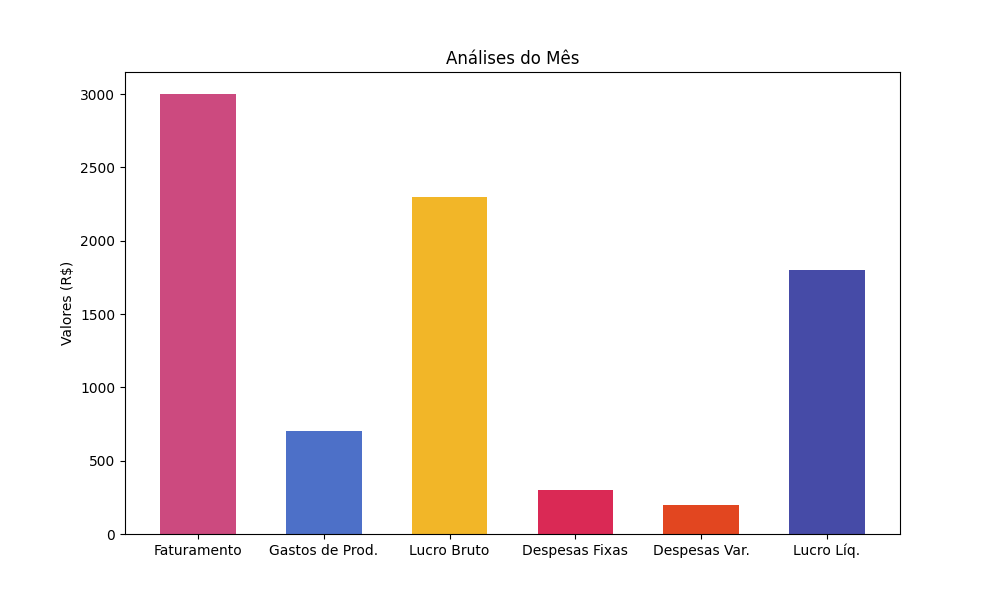
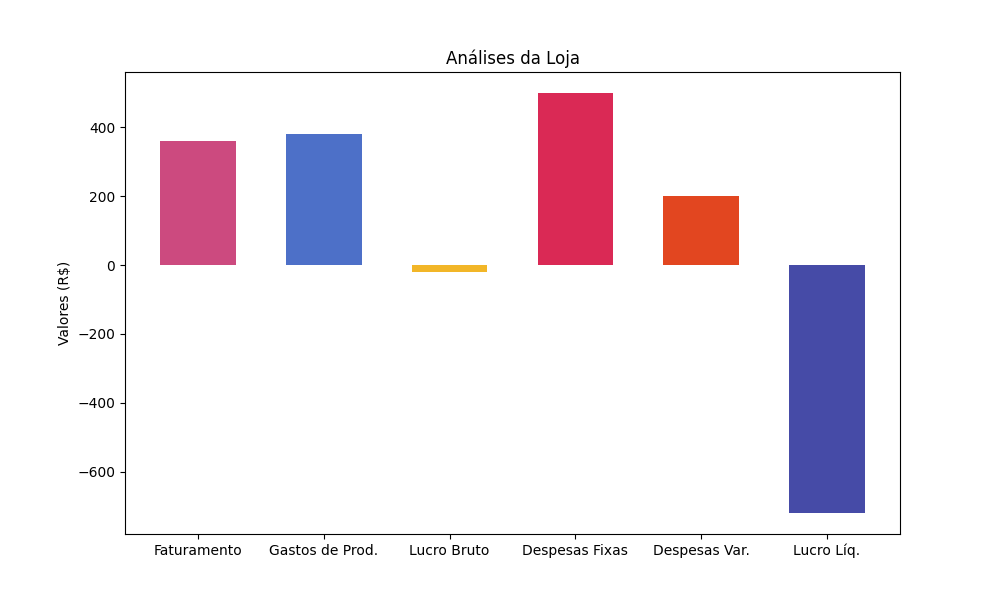
Ajeitando e fazendo o PDF

diff --git a/PDFs/funções_pdf.py b/PDFs/funções_pdf.py
@@ -1,16 +1,16 @@
 parametroParado = 2
 
 def dataNormal(data):
-    data_normal = str(data)[6:8]}/{str(data)[4:6]}/{str(data)[0:4]
-    return(data)
+    data_normal = f"{str(data)[6:8]}/{str(data)[4:6]}/{str(data)[0:4]}"
+    return(data_normal)
 
 def dataForma1(data): # Se a data tiver na forma 24062025
-    data = int( str(data1)[4:8]+str(data1)[2:4]+str(data1)[0:2] )
-    return(data)
+    dataForma1 = int( str(data)[4:8]+str(data)[2:4]+str(data)[0:2] )
+    return(dataForma1)
 
 def dataForma2(data): # Se a data tiver na forma "24/06/2025"
-    data = int( str(data2)[6:10]+str(data2)[3:5]+str(data2)[0:2] )
-    return(data)
+    data = int( str(data)[6:10]+str(data)[3:5]+str(data)[0:2] )
+    return(dataForma2)
 
 
 def listaParados():
@@ -19,7 +19,7 @@ def listaParados():
     banco = sqlite3.connect('banco_lojaArcanjo.db')
     cursor = banco.cursor()
 
-    cursor.execute("SELECT codigo FROM loja WHERE Vendidos <= ?", (parametroParado))
+    cursor.execute("SELECT codigo FROM loja WHERE Vendidos <= ?", (parametroParado,))
     resultado = cursor.fetchall()
 
     parados = [linha[0] for linha in resultado]
@@ -42,10 +42,10 @@ def salvarDados(data, despesas_f, despesas_v):
     for i in parados:
         paradosStr += str(i) + " "
 
-    cursor.execute("UPDATE Dados_Salvos SET Despesa_Fixas = ? WHERE Data = 0", (despesas_f))
-    cursor.execute("UPDATE Dados_Salvos SET Despesas_Variáveis = ? WHERE Data = 0", (despesas_v))
-    cursor.execute("UPDATE Dados_Salvos SET Produtos_Parados = ? WHERE Data = 0", (paradosStr))
-    cursor.execute("UPDATE Dados_Salvos SET Data = ? WHERE Data = 0", (data))
+    cursor.execute("UPDATE Dados_Salvos SET Despesa_Fixas = ? WHERE Data = 0", (despesas_f,))
+    cursor.execute("UPDATE Dados_Salvos SET Despesas_Variáveis = ? WHERE Data = 0", (despesas_v,))
+    cursor.execute("UPDATE Dados_Salvos SET Produtos_Parados = ? WHERE Data = 0", (paradosStr,))
+    cursor.execute("UPDATE Dados_Salvos SET Data = ? WHERE Data = 0", (data,))
 
     cursor.execute("INSERT INTO Dados_Salvos VALUES (?, ?, ?, ?, ?, ?)", (0, 0, 0, 0, "", 0))
 
@@ -54,24 +54,28 @@ def salvarDados(data, despesas_f, despesas_v):
 
 def criarGrafico(data_1, data_2):
     import matplotlib.pyplot as plt
+    import sqlite3
+
+    banco = sqlite3.connect('banco_lojaArcanjo.db')
+    cursor = banco.cursor()
 
     categorias = ["Faturamento", "Gastos de Prod.", "Lucro Bruto", "Despesas Fixas", "Despesas Var.", "Lucro Líq."]
     cores = ['#CC4A7F', '#4D70C8', '#F2B628', "#DA2955", '#E24620', '#464BA7']
 
     cursor.execute("SELECT Faturamento FROM Dados_Salvos WHERE data >= ? AND data <= ?", (data_1, data_2))
-    Faturamento = [linha[0] for linha in cursor.fetchall()[1:]]
+    fat = [linha[0] for linha in cursor.fetchall()[1:]]
 
     cursor.execute("SELECT Gastos_de_Produção FROM Dados_Salvos WHERE data >= ? AND data <= ?", (data_1, data_2))
-    Gastos = [linha[0] for linha in cursor.fetchall()[1:]]
+    gastos = [linha[0] for linha in cursor.fetchall()[1:]]
 
     cursor.execute("SELECT Despesa_Fixas FROM Dados_Salvos WHERE data >= ? AND data <= ?", (data_1, data_2))
-    depesasF = [linha[0] for linha in cursor.fetchall()[1:]]
+    despesasF = [linha[0] for linha in cursor.fetchall()[1:]]
 
     cursor.execute("SELECT Despesas_Variáveis FROM Dados_Salvos WHERE data >= ? AND data <= ?", (data_1, data_2))
-    depesasV = [linha[0] for linha in cursor.fetchall()[1:]]
+    despesasV = [linha[0] for linha in cursor.fetchall()[1:]]
 
 
-    valores = [sum(fat), sum(gastos), ( sum(fat) - sum(gastos), sum(depesasF) ), sum(DespesasV), ( sum(fat)-sum(gastos)-sum(depesasF)-sum(DespesasV) )]
+    valores = [sum(fat), sum(gastos), ( sum(fat) - sum(gastos)), sum(despesasF), sum(despesasV), ( sum(fat)-sum(gastos)-sum(despesasF)-sum(despesasV) )]
 
     plt.figure(figsize = (10, 6))  # Largura x Altura
     plt.bar(categorias, valores, color = cores, width = 0.6)
@@ -83,6 +87,7 @@ def criarGrafico(data_1, data_2):
     # Salvar o gráfico como imagem (PNG)
     plt.savefig("Análises.png")
     plt.close()
+    banco.close()
 
 def produtos_parados(data_1, data_2):
     import sqlite3
@@ -101,15 +106,15 @@ def produtos_parados(data_1, data_2):
     for i in range(1, len(datas)):
         parados = ""
 
-        for j in range(len(estoques[i].split)):
-            paradosEspecifico = estoques[i].split
+        for j in range(1, len(estoques[i].split())):
+            paradosEspecifico = estoques[i].split()
 
-            cursor.execute("SELECT Nome_produto FROM loja WHERE codigo = ?", (int(paradosEspecifico[j])))
+            cursor.execute("SELECT Nome_produto FROM loja WHERE codigo = ?", (int(paradosEspecifico[j]),))
             paradao = cursor.fetchone()[0]
 
             parados += paradao + ", "
 
-        listaParagrafosParados.append(f"Entre os dias {dataNormal(i-1) e {dataNormal(i)} os itens que ficaram parados segundo o paramêtro no período foram: {paradosEspecifico[0:-2]}}")
+        listaParagrafosParados.append(f"Entre os dias {dataNormal(datas[i-1])} e {dataNormal(datas[i])} os itens que ficaram parados segundo o paramêtro no período foram: {parados[0:-2]}")
     
     banco.close()
         

diff --git a/funções.py b/funções.py
@@ -148,10 +148,12 @@ def AdicionarProdutoAoEstoque():
         cursor.execute("UPDATE loja SET estoque = ? WHERE codigo = ?", (novo_estoque, codigo_q))
 
         # Parte pro PDF
-        cursor.execute("SELECT valor_original FROM loja WHERE codigo = ?", (codigo_q))
-        gastoUnidade = cursor.fetchone()
-        
-        cursor.execute("UPDATE Dados_Salvos SET Gastos_de_Produção = ? WHERE Data = 0", (gastoUnidade * quantidade_q))
+        cursor.execute("SELECT valor_original FROM loja WHERE codigo = ?", (codigo_q,))
+        gastoUnidade = cursor.fetchone()[0]
+
+        gastosProd = gastoUnidade * quantidade_q
+        data = 0      
+        cursor.execute("UPDATE Dados_Salvos SET Gastos_de_Produção = ? WHERE Data = ?", (gastosProd, data))
 
         banco.commit()
         print("Estoque atualizado com sucesso! Novo estoque:", novo_estoque)
@@ -196,13 +198,13 @@ def RemoverProdutoDoEstoque():
             print("Estoque atualizado!")
 
             # Parte pro PDF
-            cursor.execute("SELECT valor FROM loja WHERE codigo = ?", (codigo))
-            ganhoUnidade = cursor.fetchone()
+            cursor.execute("SELECT valor FROM loja WHERE codigo = ?", (codigo,))
+            ganhoUnidade = cursor.fetchone()[0]
         
-            cursor.execute("UPDATE Dados_Salvos SET Faturamento = ? WHERE Data = 0", (ganhoUnidade * quantidade))
+            cursor.execute("UPDATE Dados_Salvos SET Faturamento = ? WHERE Data = 0", (ganhoUnidade * quantidade,))
 
             cursor.execute("SELECT Vendidos FROM loja WHERE codigo = ?", (codigo,))
-            quantVendidos = cursor.fetchone()
+            quantVendidos = cursor.fetchone()[0]
             cursor.execute("UPDATE loja SET Vendidos = ? WHERE codigo = ?", (quantVendidos + quantidade, codigo))
 
             banco.commit()
@@ -221,15 +223,13 @@ def RemovercadastroProduto():
 
     cursor.execute("SELECT * FROM loja WHERE codigo== ? ",(codigo,))
     dados= cursor.fetchall()
-    banco.commit()
 
     while dados == []:
         print("Codigo inválido. Digite novamente!")
-        codigo = (input("Digite o código do produto: "))
+        codigo = (input("Digite o código do produto: ")) #roda inifinitamente se n quiser digitar outro codigo
         codigo = ValidaInteiro(codigo)
         cursor.execute("SELECT * FROM loja WHERE codigo== ? ",(codigo,))
         dados= cursor.fetchall()
-        banco.commit()
 
     cursor.execute("DELETE from loja WHERE codigo = ?", (codigo,))
     print('Produto removido com sucesso!')

diff --git a/PDFs/PDF.py b/PDFs/PDF.py
@@ -1,3 +1,5 @@
+import funções_pdf
+
 def criarPDF(data1, data2):
     from reportlab.pdfgen import canvas
     from reportlab.lib.pagesizes import letter
@@ -26,15 +28,27 @@ def criarPDF(data1, data2):
     paragrafo1 = Paragraph(texto1, estilo)
     paragrafo2 = Paragraph(texto2, estilo)
     paragrafo3 = Paragraph(texto3, estilo)
-    paragrafo4 = Paragraph(texto4, estilo)
 
-    criarGrafico(data1, data2)
+    funções_pdf.criarGrafico(data1, data2)
     grafico_img = Image('Análises.png', width = 400, height = 240)
 
-    conteudo = [paragrafo1, paragrafo2, paragrafo3, Spacer(1, 12), grafico_img, Spacer(1, 12)]
+    # Estilo para o título
+    estilo_titulo = ParagraphStyle(
+        name = "Titulo",
+        parent = styles["Heading1"],
+        alignment = 1,  # 0 = esquerda, 1 = centralizado, 2 = direita
+        fontSize = 18,
+        spaceAfter = 20
+    )
 
-    paragrafos = produtos_parados(data1, data2)
+    # Título do relatório
+    titulo_texto = "Análise Financeira da Loja Arcanjo"
+    titulo = Paragraph(titulo_texto, estilo_titulo)
+
+    conteudo = [titulo, paragrafo1, paragrafo2, paragrafo3, Spacer(1, 12), grafico_img, Spacer(1, 12)]
+
+    paragrafos = funções_pdf.produtos_parados(data1, data2)
     for frase in paragrafos:
-        conteudo.append([Paragraph(frase, estilo)])
+        conteudo.append(Paragraph(frase, estilo))
 
     pdf.build(conteudo)

diff --git a/PDFs/testes.py b/PDFs/testes.py
@@ -1,0 +1,24 @@
+import matplotlib.pyplot as plt
+import sqlite3
+
+data_1, data_2 = 20250624, 20250625
+
+banco = sqlite3.connect('banco_lojaArcanjo.db')
+cursor = banco.cursor()
+
+categorias = ["Faturamento", "Gastos de Prod.", "Lucro Bruto", "Despesas Fixas", "Despesas Var.", "Lucro Líq."]
+cores = ['#CC4A7F', '#4D70C8', '#F2B628', "#DA2955", '#E24620', '#464BA7']
+
+cursor.execute("SELECT Faturamento FROM Dados_Salvos WHERE data >= ? AND data <= ?", (data_1, data_2))
+fat = [linha[0] for linha in cursor.fetchall()[1:]]
+
+cursor.execute("SELECT Gastos_de_Produção FROM Dados_Salvos WHERE data >= ? AND data <= ?", (data_1, data_2))
+gastos = [linha[0] for linha in cursor.fetchall()[1:]]
+
+cursor.execute("SELECT Despesa_Fixas FROM Dados_Salvos WHERE data >= ? AND data <= ?", (data_1, data_2))
+despesasF = [linha[0] for linha in cursor.fetchall()[1:]]
+
+cursor.execute("SELECT Despesas_Variáveis FROM Dados_Salvos WHERE data >= ? AND data <= ?", (data_1, data_2))
+despesasV = [linha[0] for linha in cursor.fetchall()[1:]]
+
+print(sum(fat))

diff --git a/NOVACOLUNA.py b/NOVACOLUNA.py
@@ -1,0 +1,21 @@
+# import sqlite3
+# banco = sqlite3.connect("banco_lojaArcanjo.db")
+# cursor = banco.cursor()
+
+# cursor.execute("ALTER TABLE loja ADD COLUMN Vendidos INTEGER")
+
+# banco.commit()
+# banco.close()
+# print('se deu certo')
+
+
+#import sqlite3
+
+#banco = sqlite3.connect('banco_lojaArcanjo.db')
+#cursor = banco.cursor()
+
+#cursor.execute("UPDATE loja SET Vendidos = 0")
+
+#banco.commit()
+#banco.close()
+

diff --git a/PDFs/CRIAR PDF.py b/PDFs/CRIAR PDF.py
@@ -1,0 +1,7 @@
+import funções_pdf
+import PDF
+
+# import codigo_gpt
+
+# funções_pdf.salvarDados(20250625, 500, 200)
+PDF.criarPDF(20250624, 20250625)
